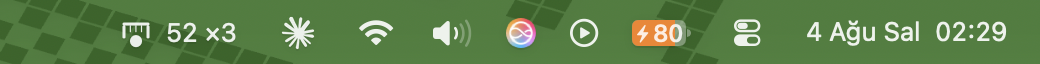
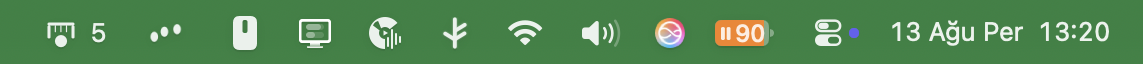
Site: sync from the app repository (f826de9)

Changed region(s): [[0.0, 0.0, 0.9846, 1.0], [0.6154, 0.75, 0.7077, 1.0]]

diff --git a/index.html b/index.html
@@ -46,7 +46,7 @@
   <figure>
     <div class="mac">
       <div class="mac-lid">
-        <img class="shot" src="img/hero.jpg" alt="A clean green Mac desktop with a football goal at the top left and the ball down on the pitch mid-throw, ringed in orange, a dotted line running diagonally from the ball up toward the goal.">
+        <img class="shot" src="img/hero.jpg" alt="A clean green Mac desktop with a football goal at the top right and the ball down on the pitch mid-throw, ringed in orange, a dotted line running diagonally from the ball up toward the goal.">
       </div>
       <div class="mac-base"></div>
     </div>
@@ -142,7 +142,7 @@
       score, and everything else — new ball, reset, mute, volume, theme, always on top, open at login —
       is one click away in its menu.
     </p>
-    <img class="menubar-shot" src="img/menubar-shot.png" alt="A slice of the real macOS menu bar: the Kick Kick icon carrying a score of 52 on a three-in-a-row streak, sitting among the other menu-bar items alongside the battery and the clock.">
+    <img class="menubar-shot" src="img/menubar-shot.png" alt="A slice of the real macOS menu bar: the Kick Kick icon carrying a score of 5, sitting among the other menu-bar items alongside the battery and the clock.">
 
     <ul class="points">
       <li>
